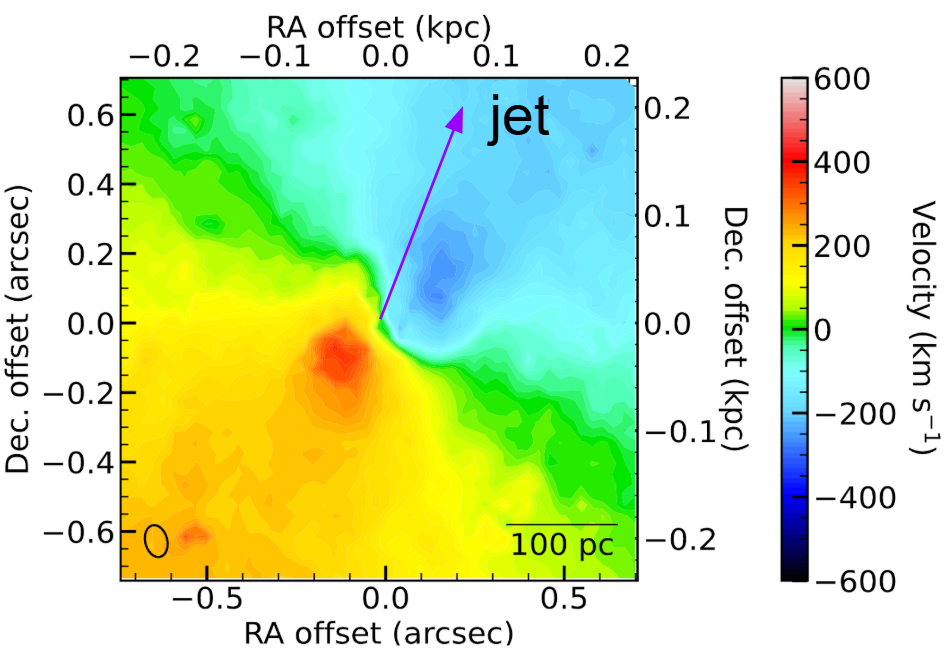
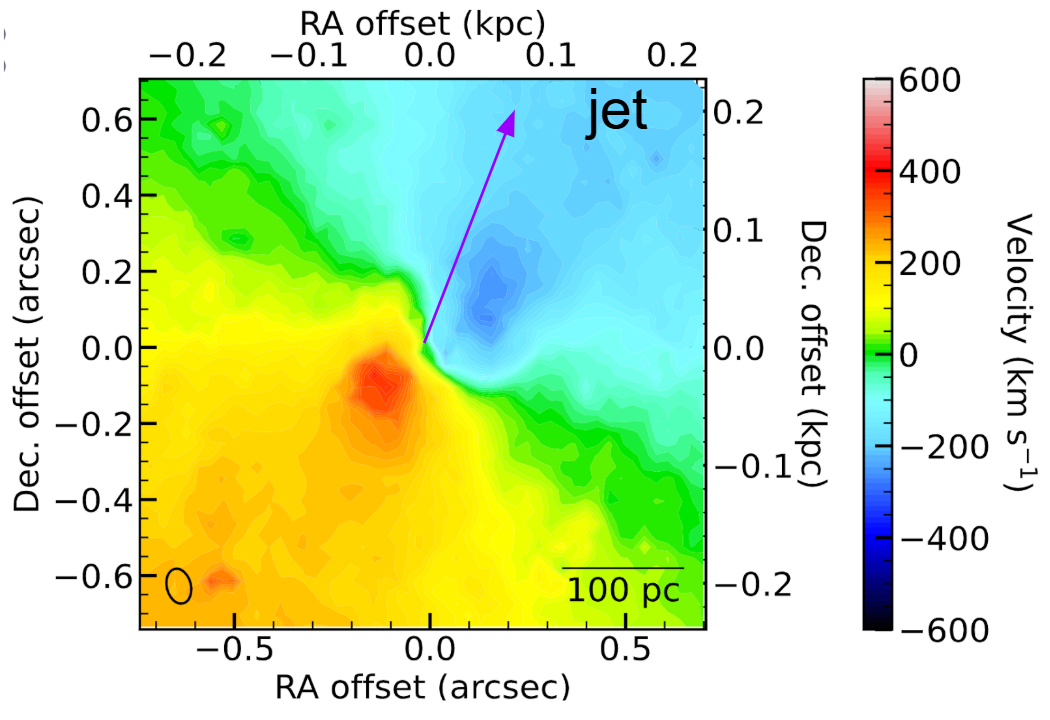
Fix figures

diff --git a/_projects/1_project.md b/_projects/1_project.md
@@ -64,10 +64,10 @@ This remarkable NGC 383 measurement is shown below. Achieving a physical resolut
 Additionally, this high-resolution ALMA observation revealed a possible position angle warp in the previously unresolved central region of the molecular gas disk, which aligns the circumnuclear molecular gas disk more closely with the radio jet in this galaxy than the large-scale molecular gas disk. Such an alignment was previously only seen in megamaser disk observations.
 
 <div class="row justify-content-sm-center">
-    <div class="col-sm-7.5 mt-3 mt-md-0">
+    <div class="col-sm-8 mt-3 mt-md-0">
         {% include figure.liquid path="assets/img/NGC383_warp_model.png" title="NGC 383 warp model" class="img-fluid rounded z-depth-1" %}
     </div>
-    <div class="col-sm-4.5 mt-3 mt-md-0">
+    <div class="col-sm-4 mt-3 mt-md-0">
         {% include figure.liquid path="assets/img/NGC383_warp.png" title="NGC 383 warp" class="img-fluid rounded z-depth-1" %}
     </div>
 </div>
